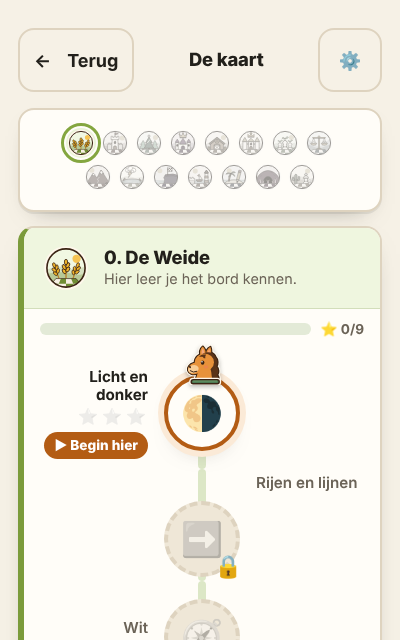
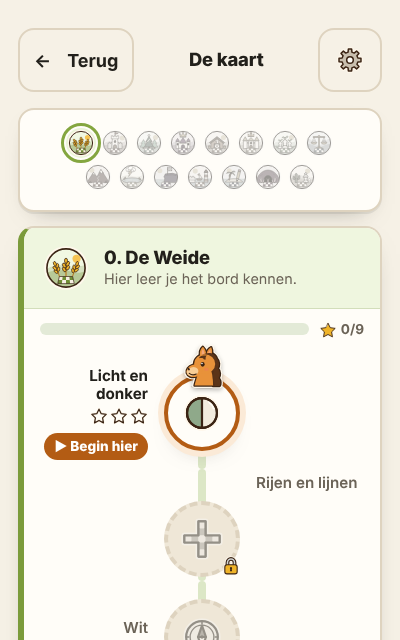
38e review verwerkt: luidspreker-contrast in donker, fasen 0,6, Thuis-icoon, wapen kleiner op lage schermen, verse schermafbeeldingen

diff --git a/src/ui/Pip.tsx b/src/ui/Pip.tsx
@@ -132,8 +132,9 @@ export function Pip({
               aria-label="Zeg het nog eens"
               title="Zeg het nog eens"
             >
-              {/* Wit silhouet: in de oranje knop moet het icoon licht zijn, en zo blijft hij één bestand. */}
-              <img src={icoonBeeld('geluid')} alt="" width={30} height={30} style={{ display: 'block', filter: 'brightness(0) invert(1)' }} />
+              {/* Silhouet in de kleur van --accent-ink: wit op het donkere oranje van licht, donker
+                  op het lichte oranje van donker (wit haalde daar maar 2,5:1, 38e review). */}
+              <img src={icoonBeeld('geluid')} alt="" width={30} height={30} className={styles.luisterIcoon} />
             </button>
           )}
         </p>

diff --git a/src/lesson/LessonPlayer.tsx b/src/lesson/LessonPlayer.tsx
@@ -829,7 +829,8 @@ function FaseBalk({ nu, opNogEensKijken }: { nu: Fase; opNogEensKijken?: () => v
             background: i === hier ? 'var(--accent-soft)' : 'transparent',
             border: i === hier ? '2px solid var(--accent)' : '2px solid transparent',
             filter: i <= hier ? 'none' : 'grayscale(1)',
-            opacity: i <= hier ? 1 : 0.45,
+            // 0,6 en niet 0,45: in donker werden de komende fasen schimmen (38e review).
+            opacity: i <= hier ? 1 : 0.6,
           }}
         >
           <Icoon naam={FASE_BEELD[f]} maat={30} />

diff --git a/src/app/Thuis.tsx b/src/app/Thuis.tsx
@@ -525,7 +525,7 @@ function NieuwProfiel({
           <Pip zegt={WELKOM} stemming="blij" vanzelf={false} />
           <p className="muted" style={{ margin: 0 }}>
             Pip leest alles voor, dus lezen hoeft nog niet. Zet het geluid van je apparaat
-            aan en tik op de luidspreker <span aria-hidden="true">🔊</span> om hem te horen. Na
+            aan en tik op de luidspreker <Icoon naam="geluid" maat={22} /> om hem te horen. Na
             &ldquo;Beginnen&rdquo; praat hij vanzelf.
           </p>
         </>

diff --git a/src/ui/Pip.module.css b/src/ui/Pip.module.css
@@ -115,3 +115,9 @@
 .tekening { display: block; width: 100%; height: 100%; }
 .gezicht:has(.tekening) { width: 100%; height: 100%; font-size: 0; }
 .pip:has(.tekening) { overflow: hidden; }
+
+.luisterIcoon { display: block; filter: brightness(0) invert(1); }
+@media (prefers-color-scheme: dark) {
+  :root:not([data-theme='light']) .luisterIcoon { filter: brightness(0); }
+}
+:root[data-theme='dark'] .luisterIcoon { filter: brightness(0); }

diff --git a/src/lesson/LessonPlayer.module.css b/src/lesson/LessonPlayer.module.css
@@ -273,3 +273,6 @@
 }
 :root[data-theme='dark'] .wapenAf { background: hsl(var(--toon) 25% 25%); }
 .lesKort { display: flex; align-items: center; justify-content: center; gap: 10px; flex-wrap: wrap; padding: 10px 14px; }
+
+/* Op een liggend scherm van 768 hoog viel "Volgende les" onder de vouw (38e review). */
+@media (max-height: 820px) { .wereldAfWapen img { width: 104px; height: 104px; } }

diff --git a/docs/volgende-niveau.md b/docs/volgende-niveau.md
@@ -3,7 +3,7 @@
 Geheugen van de `/loop`. Elke ronde: lees dit, pak het hoogste rode punt, bouw, bewijs, review, werk bij.
 
 ## Open vragen voor Kaj
-- (geen open vragen; proef beeldtaal volgt ter beoordeling)
+- **Opname.** De schaakmeester raadt aan om "Dan roep je: schaak!" (w9-schaak, les 2) te vervangen door "Je mag dan 'schaak' zeggen": het is geen regel, en bij de club leren kinderen dat het niet hoeft. Het is een ingesproken zin, dus er is een nieuwe opname nodig (`npm run audio:render`, met een ElevenLabs-sleutel). Zal ik de tekst aanpassen zodat jij hem opnieuw laat inspreken? De loop gaat intussen gewoon door.
 
 ## Besluiten van Kaj
 - 4 nov 2026: **proef beeldtaal goedgekeurd** (Pip in profiel met voetstuk, platte warme stijl; zie docs/volgende-niveau/proef-beeldtaal.png). Nu: de hele set en inbouwen.
@@ -25,12 +25,12 @@ Schermafbeeldingen: `docs/volgende-niveau/voor-*.png`.
 | Lighthouse Toegankelijkheid 100 | 95; enige afwijking is `meta-viewport`, bewust (zie besluiten) | 🟢 |
 | Lighthouse Best Practices ≥ 95 | 96. De console-404 op `/sfx/manifest.json` is lokaal en bewust (hosting-klaar); live bestaat het manifest | 🟢 |
 | Lighthouse SEO 100 | 100 | 🟢 |
-| LCP < 2,5 s / CLS < 0,05 | 2,1 s / 0 | 🟢 |
+| LCP < 2,5 s / CLS < 0,05 | ronde 13: 2,1–2,3 s / 0 (3 metingen) | 🟢 |
 | Eerste les ≤ 2 tikken, ≤ 15 s | 1 tik, 1,4 s | 🟢 |
 | Tik-reactie < 100 ms | ronde 10: goed veld 31 ms, fout veld 31 ms, hulp 13 ms (zichtbare verandering, na de verf); bewaakt in doorloop | 🟢 |
 | Beloningsmoment per wereld | ronde 3: eigen held-kaart (wapen 128 px, confetti, wapenrij), diploma-voorproef | 🟢 (wow nog te meten) |
 | `prefers-reduced-motion` | ronde 10: elke animatie stopt na één keer; doorloop: geen eindeloze animaties op /, les, kaart, minispel; golf/vonk aan én uit bewaakt | 🟢 |
-| Wow-toets ≥ 9 (4 schermen, 2 reviewers) | ronde 12 (illustraties): start 7/7,5, les 6,5/7,5, wereld af 7,5/8, kaart 7–8/8. ronde 11 (alle vier opnieuw): start 7,5/7,5, les 6,5/7, wereld af 7/7, kaart 7/7,5 — vast op beeldtaal, zie vraag 1. ronde 6: start 7/8. ronde 5: kaart 6,5/7,5. ronde 4: eerste les 7/7. ronde 3: wereld af 5/7, diploma 7,5/8 (vóór verbouwing). ronde 2: start 6/7, les 6,5/6, diploma 3/–, kaart 5/6,5 (zie 27e review) | 🔴 |
+| Wow-toets ≥ 9 (4 schermen, 2 reviewers) | ronde 13 (iconen): start 7/7,5, les 6–7/7, wereld af 8/7,5, kaart 7–8/8. ronde 12 (illustraties): start 7/7,5, les 6,5/7,5, wereld af 7,5/8, kaart 7–8/8. ronde 11 (alle vier opnieuw): start 7,5/7,5, les 6,5/7, wereld af 7/7, kaart 7/7,5 — vast op beeldtaal, zie vraag 1. ronde 6: start 7/8. ronde 5: kaart 6,5/7,5. ronde 4: eerste les 7/7. ronde 3: wereld af 5/7, diploma 7,5/8 (vóór verbouwing). ronde 2: start 6/7, les 6,5/6, diploma 3/–, kaart 5/6,5 (zie 27e review) | 🔴 |
 | OG-afbeelding per pagina | ronde 9: 28 eigen plaatjes (werelden, schaakregels, schaakclub), lessen delen hun wereld; build controleert 206 verwijzingen. Nog te testen: vierkante uitsnede in echte WhatsApp | 🟢 |
 | Deelknop op trotse momenten | ronde 3: op wereld af en diploma, alleen link + vaste zin, anonieme telling `Gedeeld`; doorloop bewaakt share én kopieer zonder naam | 🟢 |
 | Installeerbaar | manifest + service worker aanwezig | 🟢 |
@@ -38,11 +38,12 @@ Schermafbeeldingen: `docs/volgende-niveau/voor-*.png`.
 | `npm run check` + doorloop groen | ronde 2: groen (doorloop 23 regels) | 🟢 |
 | `/release-review` go | 27e review: go voor deze fase, na verwerking | 🟢 |
 
-## Rangschikking, na ronde 12
+## Rangschikking, na ronde 13
 
-1. **Illustratieronde 2: één stijl tot in het kleinste icoon.** Fase-iconen (👀 🤝 🙋 ⭐), halte-iconen en 🔒 op de kaart, 🏆 🏅 💌, de knoppen 🔔 ⚙ 💡 🔊, de drie punten op de startpagina en de 🐴 als standaardavatar. Daarnaast: Pip zonder plankje op de halte, marge in de knopvarianten, het vlekje bij juicht, een paard in het wapen van Paardenstal, en kaartstroken die op brede schermen niet opblazen.
-2. **Pip groot in juichmomenten:** wereld af en de kennismaking in de kijkfase.
-3. Pip in de les die naar het veld wijst.
+1. **Pip groot en levend in de juichmomenten.** Bij wereld af juicht Pip groot naast het wapen, en de ballon blijft in beeld. Bij de kennismaking in de kijkfase is Pip groter en wijst hij naar het bord.
+2. **Het bord in de kijkfase laten vertellen**, bijvoorbeeld een rand in de stijl van de wereld om het bord.
+3. **Het kaartpad doorgetrokken over het landschap**, ook op brede schermen.
+4. Emoji in de uitslagen van partijen en live spelen. Dat zijn niet de wow-schermen, dus het komt later.
 
 ## Logboek
 - Ronde 1: nulmeting. Niets aan de app veranderd.
@@ -57,3 +58,4 @@ Schermafbeeldingen: `docs/volgende-niveau/voor-*.png`.
 - Ronde 10: gevoel — tik-reactie gemeten en bewaakt, minder beweging zonder eindeloze animaties.
 - Ronde 11: speelbaar paard in de held; alle vier wow-schermen opnieuw gemeten. Loop gestopt: beeldtaal is een keuze voor Kaj (vraag 1).
 - Ronde 12: eigen illustraties (Pip, wapens, kaartstroken) ingebouwd; bordje in wapens rechtsonder licht; offline en test op bestaan.
+- Ronde 13: één tekenstijl (71 iconen), schaakfouten in iconen hersteld, luidspreker met contrast in donker, LCP 2,1–2,3 s.

diff --git a/docs/reviews/2026-11-04-achtendertigste-review.md b/docs/reviews/2026-11-04-achtendertigste-review.md
@@ -1,0 +1,61 @@
+# Achtendertigste review: één tekenstijl, illustratieronde 2 (2026-11-04)
+
+Fase: "volgende niveau", ronde 13. Branch `volgende-niveau`. De reviewers zijn rechtstreeks gestart.
+
+**Oordeel na verwerking: GO voor deze fase.** `check` en de doorloop zijn groen. De offlineregel keurt nu kapotte plaatjes echt af, en is groen. Er zijn 0 te kleine raakvlakken. Lighthouse mobiel geeft 99/99/99, met LCP 2,1–2,3 s (eerst 2,3–2,6). De test op illustraties telt 93 gevallen.
+
+## Wat er gebouwd is
+- De illustrator-agent maakte 71 iconen (`scripts/iconen-tekenen.py`):
+  - 49 lesiconen;
+  - fasen, slot, beker, sticker, minispel, hint, geluid, instellingen, bel en bel-uit, deel;
+  - de drie punten op de startpagina;
+  - ster vol en leeg, en medailles in brons, zilver en goud.
+- Daarnaast: Pip zonder plankje, de knopvariant van Pip met marge bovenin, en een paard in het wapen van Paardenstal. De kaartstroken hebben een rustig midden.
+- Op alle vier de wow-schermen en op /lessen, de schaakregelpagina's, het opfrisscherm, het minispel, het thuisscherm en het diploma staan nu iconen in plaats van emoji.
+
+## Schaakmeester
+- **Belangrijk: de L in `les-paard-1` had twee even lange armen.** *Opgelost:* de verhouding is nu 2:1 (60 tegen 30).
+- **Belangrijk: het bordje in de wapens werd door de cirkel afgesneden, waardoor rechtsonder donker leek.** *Opgelost:* het bordje staat hoger en is smaller. Een nieuwe assert eist dat het hele veld rechtsvoor binnen de cirkel valt en licht is.
+- **Belangrijk: `les-pion-2` wees opzij.** *Opgelost:* twee pijlen omhoog.
+- **Klein:** loper-2, tactiek-1, weide-2, notatie-1, waarde-1, eindspel-2 en rokade-1 zijn opnieuw getekend volgens zijn voorstellen. *Opgelost.*
+- **Klein: "Dan roep je: schaak!" (w9-schaak).** *Niet aangepast:* dit is een ingesproken vertelzin, en een nieuwe opname vraagt een ElevenLabs-sleutel. Dat staat als vraag aan Kaj bovenaan het scorebord.
+
+## Conversie (startpagina 7,5 · les 7 · wereld af 7,5 · kaart 8)
+- **Belangrijk: LCP 2,6 s.** *Opgelost:* nu 2,1–2,3 s.
+- **Belangrijk: nog emoji op plekken voor screenshots** (⭐, 🥉🥈🥇, 🔊). *Opgelost:* er zijn getekende sterren, medailles en een luidspreker.
+- **Klein: "Volgende les" na wereld af wees naar een les die al af was.** *Opgelost:* hij wijst nu naar de eerste les die nog open is.
+- **Klein: toren-1 leek op een EHBO-kruis.** *Opgelost:* er staat nu een toren met vier pijlen.
+- **Klein: na wereld af scrolde Pips ballon buiten beeld.** *Niet opgelost:* dat staat op de lijst voor "Pip groot in de viering" (volgende ronde).
+
+## Codebase
+- **Blokkerend: de iconen waren offline niet beschikbaar.** *Opgelost:* `iconen/` zit nu in de voorraad.
+- **Blokkerend: de offlineregel keurde "nee (kapot: …)" goed.** *Opgelost:* de controle gebruikt nu `includes(':nee')`.
+- **Belangrijk: de test dekte de iconen niet.** *Opgelost:* lesiconen, vaste iconen en Pip-los zitten erin (93 gevallen).
+- **Klein:**
+  - `Icoon` accepteerde geen van beide props. *Opgelost* met een strikte union.
+  - De beker werd niet voorgelezen. *Opgelost:* `role="img"` met een aria-label.
+  - Bel-uit was alleen doorzichtig. *Opgelost:* er is een eigen icoon met een streep.
+  - Het luisterfilter had geen uitleg. *Opgelost:* er staat nu commentaar bij.
+  - Op een paar plekken stond nog `les.icoon` als emoji. *Opgelost:* daar staan nu lesiconen.
+
+## Layout (startpagina 7 · les kijkfase 6 · opgave 7 · wereld af 8 · kaart 7 / 8)
+- **Belangrijk: de witte luidspreker op donker oranje haalde maar 2,53:1.** *Opgelost:* in donker is hij nu donker, zoals `--accent-ink`.
+- **Belangrijk: de schermafbeeldingen op de startpagina waren verouderd.** *Opgelost:* ze zijn opnieuw opgenomen na deze build.
+- **Klein:**
+  - 🔊 in de tekst op het thuisscherm. *Opgelost:* daar staat nu het icoon.
+  - Komende fasen waren in donker slecht zichtbaar. *Opgelost:* opacity van 0,45 naar 0,6.
+  - "Volgende les" op 1024×768 viel onder de vouw. *Opgelost:* het wapen is kleiner op lage schermen.
+  - Slothaltes in donker zijn schimmig. *Bewust zo gelaten:* het slot zelf is goed zichtbaar.
+
+## Wow (ronde 13, vóór verwerking)
+| scherm | layout | conversie |
+|---|---|---|
+| Startpagina | 7 | 7,5 |
+| Eerste les | 6 (kijken) / 7 (opgave) | 7 |
+| Wereld af | 8 | 7,5 |
+| Kaart | 7 / 8 | 8 |
+
+**Naar een 9** noemen beide reviewers vooral:
+- Pip groot en levend in de juichmomenten: bij wereld af, en bij de kennismaking in de kijkfase.
+- Het bord in de kijkfase laten vertellen.
+- Het pad doorgetrokken over het landschap.
